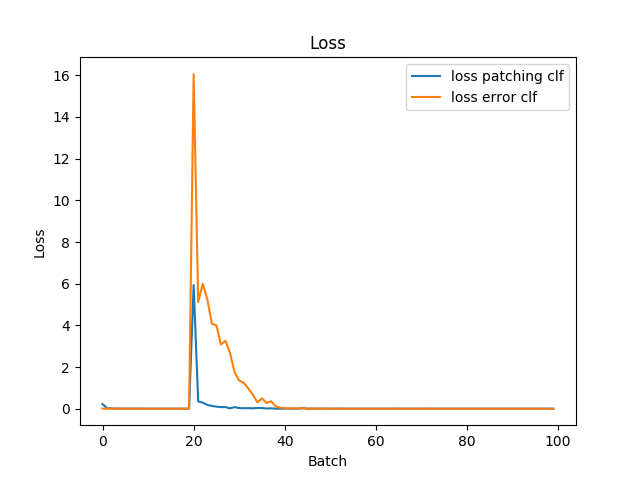
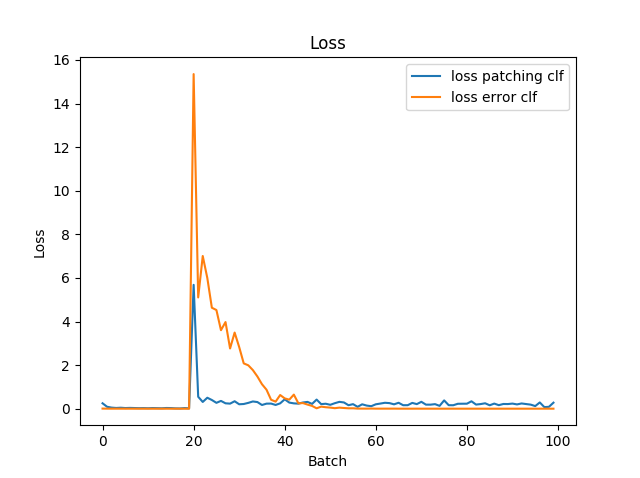
- use unweighted model

diff --git a/mnist/mnist_drift_classifier_4.py b/mnist/mnist_drift_classifier_4.py
@@ -1,0 +1,176 @@
+from scipy.io import arff
+import numpy as np
+from keras.models import load_model, Model, Sequential
+from keras.layers.convolutional import Conv2D, MaxPooling2D
+from keras.layers import Input, Dense, Activation, Dropout, Flatten
+from keras.utils import to_categorical
+from keras.preprocessing.image import ImageDataGenerator
+from keras import backend as K
+import sys
+import matplotlib.pyplot as plt
+
+# settings for GPU
+import tensorflow as tf
+config = tf.ConfigProto()
+config.gpu_options.allow_growth = True
+sess = tf.Session(config=config)
+
+filepath_train = "train.arff"
+filepath_test = "test.arff"
+
+# Functions +++++++++++++++++++++++++++++++++++++++++++++++++++++++
+def load_data(dataPath):
+    data, _ = arff.loadarff(dataPath)
+    dataArray = np.asarray(data.tolist(), dtype=np.float)
+    X = np.delete(dataArray, 784, 1) / 255
+    X = X.reshape(-1, 28, 28, 1)
+    y = dataArray[:,784]
+    return (X, y)
+
+def data_generator(streamSize): 
+    X, y = load_data(filepath_train)
+    count = 0
+    while True:
+        X_result = X[count : count + streamSize]
+        y_result = y[count : count + streamSize]
+        count += streamSize
+        print("count: %d" % count)
+        yield X_result, y_result
+        
+
+def flip_images(X, y):
+    datagen = ImageDataGenerator(
+        horizontal_flip=True,
+        vertical_flip=True,
+    )
+    datagen.fit(X)
+    data_it = datagen.flow(X, y, batch_size=1)
+    
+    data_list = []
+    y_list = []
+    batch_index = 0
+    while batch_index <= data_it.batch_index:
+        data = data_it.next()
+        #x_data = data[0].reshape((784,))
+        data_list.append(data[0])
+        y_list.append(data[1])
+        batch_index = batch_index + 1
+
+    data_array = np.asarray(data_list)
+    data_array = data_array.reshape(-1, 28, 28, 1)
+    y_array = np.asarray(y_list)
+    return (data_array, y_array)
+
+def make_model(Ei):
+    nb_filters = 64
+    nb_conv = 3
+    img_rows = 28
+    img_cols = 28
+    nb_pool = 2
+
+    model = Sequential()
+    model.add(Conv2D(nb_filters, (nb_conv, nb_conv),
+                    padding='valid',
+                    input_shape=(img_rows, img_cols, 1)))
+    model.add(Conv2D(nb_filters, (nb_conv, nb_conv), padding='valid'))
+    model.add(Activation('relu'))
+    model.add(MaxPooling2D(pool_size=(nb_pool, nb_pool)))
+
+    model.add(Conv2D(nb_filters * 2, (nb_conv, nb_conv), padding='valid'))
+    model.add(Conv2D(nb_filters * 2, (nb_conv, nb_conv), padding='valid'))
+    model.add(Activation('relu'))
+    model.add(MaxPooling2D(pool_size=(nb_pool, nb_pool)))
+    model.add(Dropout(0.25))
+
+    model.add(Flatten(name="Flatten"))
+    model.add(Dense(128))
+    model.add(Activation('relu'))
+    model.add(Dropout(0.5))
+    if Ei:
+        model.add(Dense(1))
+        model.add(Activation('sigmoid'))
+        model.compile(loss='binary_crossentropy', optimizer='adadelta', metrics=['accuracy'])
+    else:
+        model.add(Dense(10))
+        model.add(Activation('softmax'))
+        model.compile(loss='categorical_crossentropy', optimizer='adadelta', metrics=['accuracy'])
+    
+
+    return model
+
+#  +++++++++++++++++++++++++++++++++++++++++++++++++++++++++++++++++
+
+# settings
+totalDataSize = 60000
+nbBatches = 100 # devide dataset into 100 batches
+nbBaseBatches = 20 # size of base dataset
+sizeOneBatch = totalDataSize // nbBatches
+
+# classifiers
+model_Ei = make_model(True)
+model_Ci = make_model(False)
+
+lossArray_E = []
+accArray_E = []
+lossArray = []
+accArray = []
+indices = []
+
+# get data
+gen = data_generator(sizeOneBatch)
+# training in base phase
+for i in range(nbBaseBatches):
+    print(i)
+    
+    X, y = next(gen)
+    y_E = np.zeros(sizeOneBatch)
+    result_E = model_Ei.fit(X, y_E, batch_size=50, epochs=10)
+    y = to_categorical(y, 10)
+    result_C = model_Ci.fit(X, y, batch_size=50, epochs=10)
+
+    lossArray.append(np.mean(result_C.history["loss"]))
+    accArray.append(np.mean(result_C.history["acc"]))
+    lossArray_E.append(np.mean(result_E.history["loss"]))
+    accArray_E.append(np.mean(result_E.history["acc"]))
+    indices.append(i)
+
+# adaption: data changed
+for i in range(nbBaseBatches, nbBatches):
+    print(i)
+    
+    X, y = next(gen)
+    X, y = flip_images(X, y)
+    # evaluate
+    y_E = np.full(sizeOneBatch, 1.0)
+    loss_E, acc_E = model_Ei.evaluate(X, y_E, batch_size=50)
+    lossArray_E.append(loss_E)
+    accArray_E.append(acc_E)
+    y = to_categorical(y, 10)
+    loss, acc = model_Ci.evaluate(X, y, batch_size=50)
+    lossArray.append(loss)
+    accArray.append(acc)
+    indices.append(i)
+
+    # training
+    model_Ei.fit(X, y_E, batch_size=50, epochs=10)
+    model_Ci.fit(X, y, batch_size=50, epochs=10)
+
+
+np.savez("mnist_drift_clf_results.npz", acc=accArray, acc_E=accArray_E, loss=lossArray, loss_E=lossArray_E, indices=indices)
+
+
+# result of accuracy
+plt.plot(indices, accArray, label="acc patching clf")
+plt.plot(indices, accArray_E, label="acc error clf")
+plt.title("Accuracy")
+plt.ylabel("Accuracy")
+plt.xlabel("Batch")
+plt.show()
+
+# result of loss
+plt.plot(indices, lossArray, label="loss patching clf")
+plt.plot(indices, lossArray_E, label="loss error clf")
+plt.title("Loss")
+plt.ylabel("Loss")
+plt.xlabel("Batch")
+plt.show()

diff --git a/mnist/plot_result.py b/mnist/plot_result.py
@@ -2,7 +2,7 @@ import matplotlib.pyplot as plt
 import numpy as np
 from pathlib import Path
 
-"""
+
 data = np.load("mnist_drift_clf_results.npz")
 
 indices = data["indices"]
@@ -46,3 +46,4 @@ plt.xlabel("Batch")
 plt.legend()
 plt.show()
 
+"""
